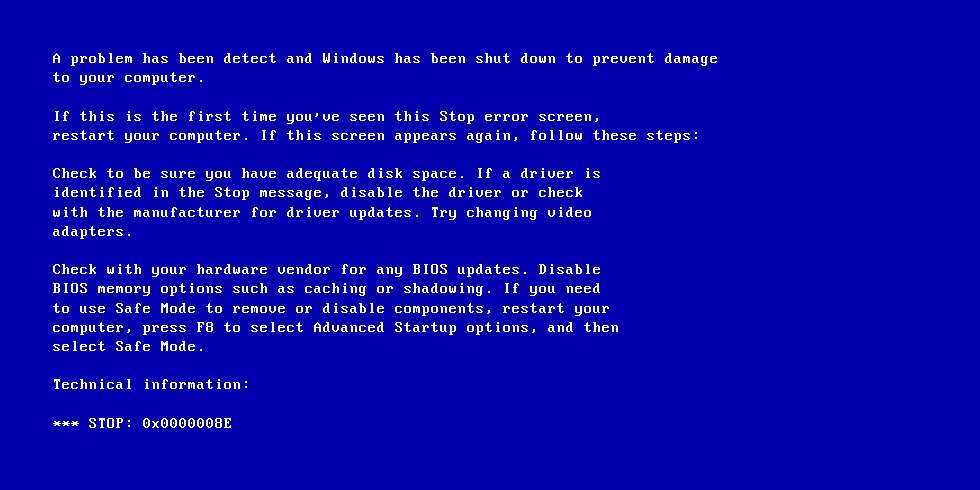
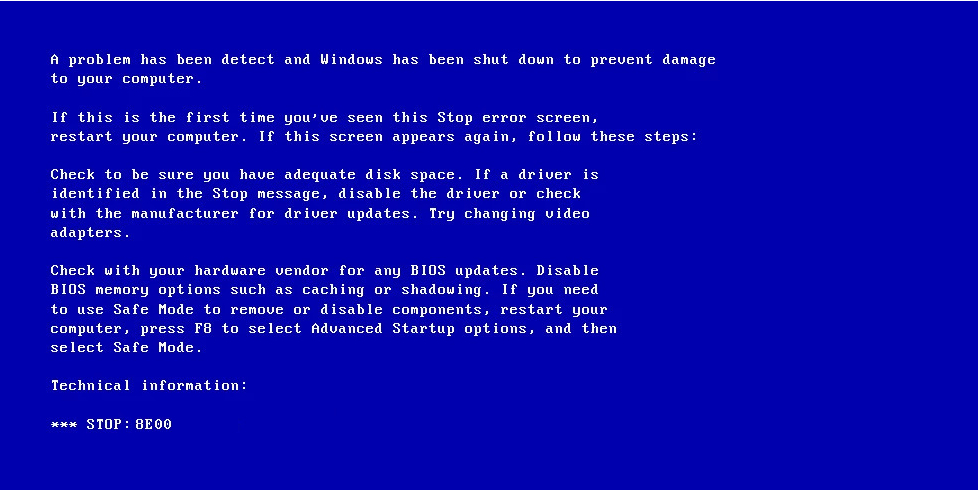
Update code for bluescreen

diff --git a/src/components/Editor.js b/src/components/Editor.js
@@ -9,7 +9,7 @@ import 'codemirror/mode/javascript/javascript'
 
 
 const Editor = (props) => {
-  const [code, setCode] = useState(`const fizzBuzz = () => {\n  // 1. Write a program that prints the numbers from 1 to 100. \n  // 2. For numbers divisible by 3, print “Fizz” \n  // 3. For numbers divisible by 5, print “Buzz” \n  // 4. For numbers divisible by both 3 and 5, print “FizzBuzz” \n  // 5. Store your results in the array by pushing them to it \n\n  const result = [] \n\n  // Your code here \n\n  return result \n} \n\n fizzBuzz()`)
+  const [code, setCode] = useState(`const fizzBuzz = () => {\n  // 1. Write a program in JAVASCRIPT that prints the numbers from 1 to 100. \n  // 2. For numbers divisible by 3, print “Fizz” \n  // 3. For numbers divisible by 5, print “Buzz” \n  // 4. For numbers divisible by both 3 and 5, print “FizzBuzz” \n  // 5. Store your results in the array by pushing them to it \n\n  const result = [] \n\n  // Your code here \n\n  return result \n} \n\n fizzBuzz()`)
 
   const options = {
     mode: 'javascript',

diff --git a/amplify/backend/function/correctCompetitionResponse/src/app.js b/amplify/backend/function/correctCompetitionResponse/src/app.js
@@ -172,7 +172,7 @@ app.put(path, function(req, res) {
     '0912': 'Swagger',
     '1093': 'Paint',
     '3209': 'QR KOD',
-    '0X0000008E': 'Blue Screen',
+    '8E00': 'Blue Screen',
   }
 
   if (userIdPresent) {
